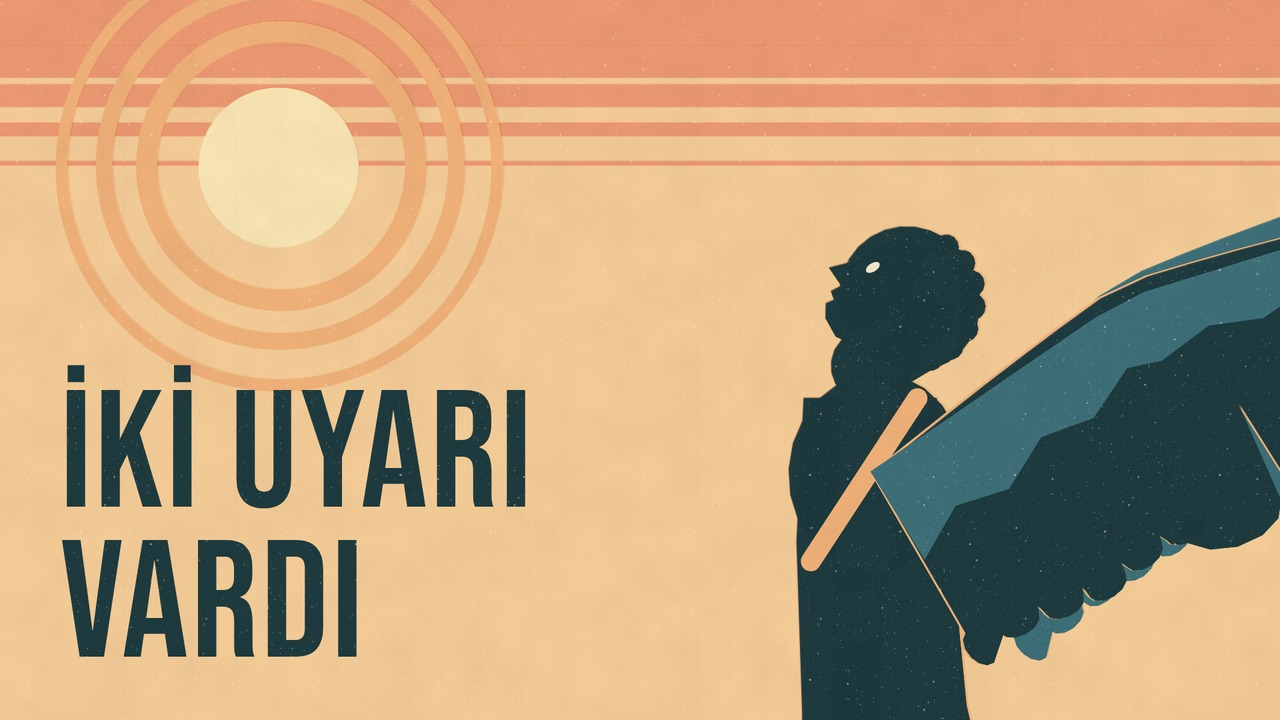
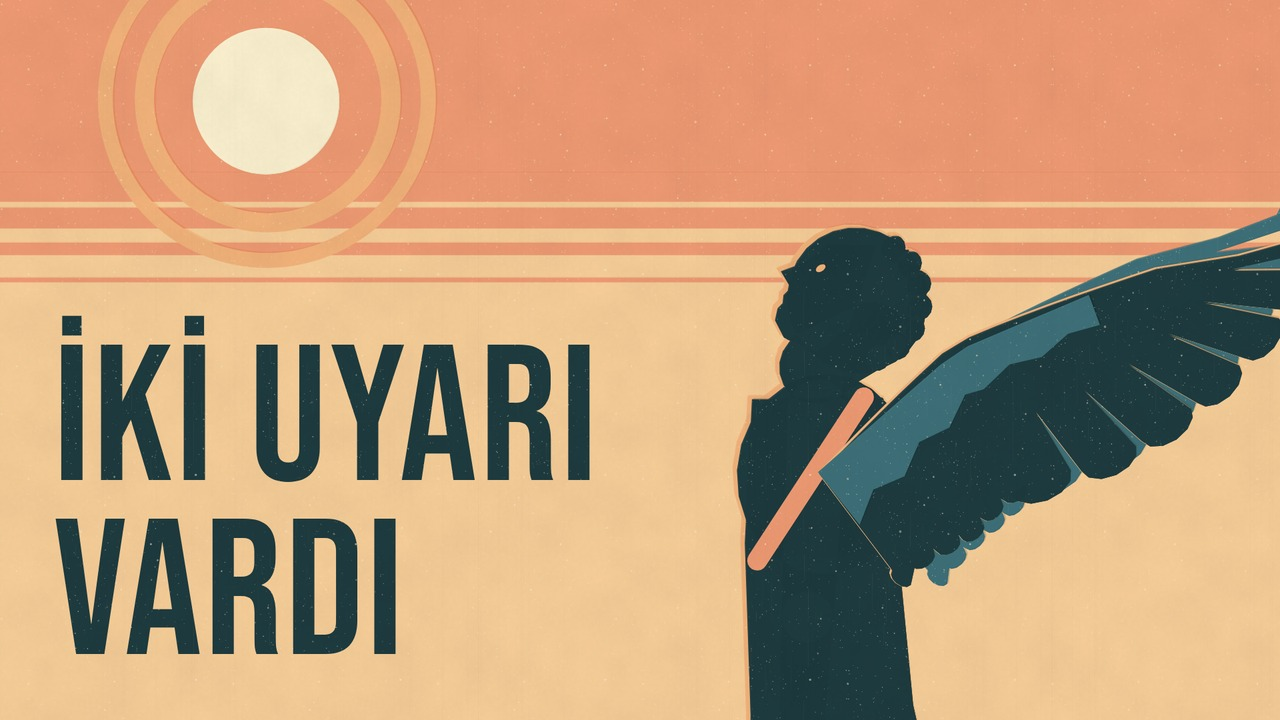
İkaros kapak tur 1 (G A 8,0 B 7,0 paket 7,5; H A 7,5 B 6,0) düzeltmeleri: yazı ≥%18, A'da güneş somon bantta ve kanat kadrajda, B'de sıçrama odak ve sudaki tüyler; göz ve dudak sadeleşti (karikatür okumasına karşı, film genelinde); başlık 'Peki Öteki Uyarı Neydi?', sabit yorum cevabı vermiyor
Claude-Session: https://claude.ai/code/session_01DiDBPDUgEDR9Ke5GJpkNYW

diff --git a/ikaros/lib/sahne/kapak.js b/ikaros/lib/sahne/kapak.js
@@ -1,25 +1,28 @@
 // Kapaklar (1280×720'ye küçültülür). ?scene=kapakA|kapakB. Kurallar: tek odak, harf ≥ %18 (Bebas), sağ alt (rozet) boş.
 'use strict';
 function kapakYazi(ctx, lines, x, y, px, col, align = 'left') { ctx.save(); baseT(ctx); ctx.font = FONT.baslik(px); ctx.textAlign = align; ctx.textBaseline = 'alphabetic'; ctx.letterSpacing = '4px'; ctx.fillStyle = col; lines.forEach((l, i) => ctx.fillText(l, x, y + i * px * .9)); ctx.restore(); }
-// A: açılış karesinin aynası: İkaros sağda, sola güneşe bakıyor; yazı sol altta
+// A: açılış karesinin aynası: İkaros sağda, sola güneşe bakıyor; yazı sol altta (büyük harf ≥ %18: Bebas 290 px ≈ 135 px / 720'de)
 SCENES.kapakA = (ctx, t) => {
   baski(ctx, kSt(4, 4), null, pr => {
-    pr.sky('sky2', 'sky1', 70, 300, 4);
-    gunes(pr, 420, 250, 120, 3);
-    const J = FG.rig({ x: 1330, y: 1160, h: 215, f: -1, lean: .05, head: -.62, armN: [.1, 0], armF: [.1, 0] });
-    kanatliFigur(pr, J, { w: { ang: -.6, bend: .3, span: 1000, chord: 370, side: 1, seed: 12 }, armInWing: false, kosum: true, light: [-1, -.7], litD: 4, farOff: [50, 10], faceFill: false, look: { curls: true, chest: true, face: true, belt: false } });
-  }, { pal: 'SAFAK' });
-  kapakYazi(ctx, ['İKİ UYARI', 'VARDI'], 90, 760, 250, PAL.SAFAK.near);
+    pr.sky('sky2', 'sky1', 260, 470, 4);
+    const s = FG.sunRings(400, 150, 110, 2); s.rings.forEach(q => pr.ink(q, 'lit', { sheen: 0 })); pr.ink(s.disk, '#FAF0CF');
+    const J = FG.rig({ x: 1250, y: 1160, h: 215, f: -1, lean: .05, head: -.62, armN: [.1, 0], armF: [.1, 0] });
+    kanatliFigur(pr, J, { w: { ang: -.72, bend: .32, span: 600, chord: 240, side: 1, seed: 12 }, armInWing: false, kosum: true, kosumRole: 'sky2', light: [-1, -.7], litD: 4, farOff: [40, 10], faceFill: false, look: { curls: true, chest: true, face: true, belt: false } });
+  }, { pal: 'SAFAK', sabit: true });
+  kapakYazi(ctx, ['İKİ UYARI', 'VARDI'], 80, 720, 290, PAL.SAFAK.near);
 };
-// B: kanat ucu denize değer; yazı üstte
+// B: kanat ucu denize değer; en parlak öğe temas noktasındaki sıçrama; suda tek tük tüyler; yazı sağ üstte
 SCENES.kapakB = (ctx, t) => {
   baski(ctx, kSt(3, 6), null, pr => {
     pr.sky('sky2', 'sky1', 60, 300, 4);
-    gunes(pr, 1560, 230, 90, 3);
+    const s = FG.sunRings(1700, 120, 56, 1); s.rings.forEach(q => pr.ink(q, 'lit', { sheen: 0 })); pr.ink(s.disk, 'lit');
     const wn = FG.wing({ root: [-240, 60], ang: .5, bend: .3, span: 1450, chord: 330, f: 1, seed: 21 });
     litInk(pr, wn.all, 'lit', 'near', 1, -.6, 9); pr.ink(wn.cov, 'mid', { sheen: .1 });
     const yW = 830, sea = new Path2D(); sea.moveTo(-50, yW); for (let x = -50; x <= 1970; x += 20) sea.lineTo(x, yW + Math.sin(x / 90 + 1.2) * 9); sea.lineTo(1970, 1200); sea.lineTo(-50, 1200); sea.closePath(); pr.ink(sea, 'mid', { sheen: .2 });
-    for (let k = 0; k < 3; k++) { const r = 70 + k * 80, ring = SK.ringPath(0, 0, r, r + 7), q = new Path2D(); q.addPath(ring, new DOMMatrix().translate(wn.tip[0], yW + 14).scale(1, .22)); pr.ink(q, 'sky1', { sheen: 0, reg: 0 }); }
-  }, { pal: 'SAFAK' });
-  kapakYazi(ctx, ['UNUTULAN', 'UYARI'], 1850, 470, 250, PAL.SAFAK.near, 'right');
+    const tx = wn.tip[0];
+    for (let k = 0; k < 3; k++) { const r = 80 + k * 90, ring = SK.ringPath(0, 0, r, r + 9), q = new Path2D(); q.addPath(ring, new DOMMatrix().translate(tx, yW + 14).scale(1, .22)); pr.ink(q, 'sky1', { sheen: 0, reg: 0 }); }
+    const sp = new Path2D(); for (let i = 0; i < 7; i++) { const a = -Math.PI + i * .52; FG.ellipseInto(sp, tx + Math.cos(a) * 46, yW - 6 + Math.sin(a) * 38, 14, 22, a + Math.PI / 2, 12); } pr.ink(sp, '#FAF0CF', { sheen: 0, reg: 0 });
+    const tu = new Path2D(); [[1150, 900, .3], [1420, 960, -.4], [860, 1000, .9]].forEach(([x, y, a]) => a2_tuy(tu, x, y, 120, a, .14)); pr.ink(tu, 'lit', { sheen: .2 });
+  }, { pal: 'SAFAK', sabit: true });
+  kapakYazi(ctx, ['UNUTULAN', 'UYARI'], 1860, 500, 290, PAL.SAFAK.near, 'right');
 };

diff --git a/ikaros/lib/figur.js b/ikaros/lib/figur.js
@@ -41,12 +41,12 @@ const FG = (() => {
     const { Hd, h, f, ht } = J, r = .5 * h, c = Math.cos(ht), s = Math.sin(ht);
     const T = (x, y) => [Hd[0] + (x * c - y * s) * f, Hd[1] + (x * s + y * c)];   // x: yüz yönü, y: aşağı
     ellipseInto(p, Hd[0], Hd[1], r * .98, r * 1.04, ht);
-    polyInto(p, [T(.2 * r, -.78 * r), T(.78 * r, -.42 * r), T(.88 * r, -.1 * r), T(1.2 * r, .24 * r), T(.92 * r, .36 * r), T(1.0 * r, .5 * r), T(.9 * r, .58 * r),
-      T(.97 * r, .68 * r), T(.86 * r, .86 * r), T(.6 * r, 1.0 * r), T(.1 * r, .92 * r), T(-.1 * r, .4 * r)]);
+    polyInto(p, [T(.2 * r, -.78 * r), T(.78 * r, -.42 * r), T(.88 * r, -.1 * r), T(1.14 * r, .24 * r), T(.9 * r, .36 * r), T(.93 * r, .5 * r), T(.88 * r, .6 * r),
+      T(.9 * r, .7 * r), T(.84 * r, .86 * r), T(.6 * r, 1.0 * r), T(.1 * r, .92 * r), T(-.1 * r, .4 * r)]);
     if (o.beard) { polyInto(p, [T(.66 * r, .5 * r), T(.98 * r, .86 * r), T(.9 * r, 1.22 * r), T(.62 * r, 1.62 * r), T(.36 * r, 1.4 * r), T(.1 * r, 1.2 * r), T(-.15 * r, .5 * r)]); for (let k = 0; k < 5; k++) { const a = Math.PI * (.8 + k * .16); ellipseInto(p, ...T(Math.cos(a) * r * .95 - .1 * r, Math.sin(a) * r * .9 + .05 * r), r * .2, r * .2, 0, 12); } }
     if (o.curls) for (let k = 0; k < 7; k++) { const a = Math.PI * (.78 + k * .12); ellipseInto(p, ...T(Math.cos(a) * r * .84 - .04 * r, Math.sin(a) * r * .86 - .02 * r), r * .19, r * .19, 0, 14); }
     if (o.faceOut) { const fp = P(); polyInto(fp, [T(.32 * r, -.8 * r), T(.78 * r, -.42 * r), T(.86 * r, -.06 * r), T(1.12 * r, .2 * r), T(.9 * r, .34 * r), T(.94 * r, .52 * r), T(.84 * r, .66 * r), T(.86 * r, .8 * r), T(.6 * r, 1.0 * r), T(.4 * r, .88 * r), T(.5 * r, .3 * r), T(.44 * r, -.3 * r)]);
-      const ep = P(); ellipseInto(ep, ...T(.66 * r, -.1 * r), r * .11, r * .06, ht, 14); o.faceOut.face = fp; o.faceOut.eye = ep; }
+      const ep = P(); ellipseInto(ep, ...T(.64 * r, -.1 * r), r * .075, r * .045, ht, 14); o.faceOut.face = fp; o.faceOut.eye = ep; }
     // boyun
     capsule(p, J.N, add2(Hd, [-f * .1 * h, .25 * h]), .26 * h, .24 * h);
   }

diff --git a/ikaros/lib/sahne/ortak.js b/ikaros/lib/sahne/ortak.js
@@ -19,8 +19,8 @@ function kanatliFigur(pr, J, o) {
   pr.ink(fig.far, o.farLimb || 'near');
   litInk(pr, fig.body, 'lit', o.body || 'near', L[0], L[1], dl);
   if (fig.belt) pr.ink(fig.belt, o.beltRole || 'lit', { sheen: 0 });
-  if (o.kosum) { const k = new Path2D(), fw = [Math.cos(J.lean) * J.f, Math.sin(J.lean)]; FG.capsule(k, add2c(add2c(J.Sh, fw, -.35 * J.h), J.upv, .05 * J.h), add2c(add2c(J.H, fw, .45 * J.h), J.upv, 1.5 * J.h), J.h * .07, J.h * .07); pr.ink(k, 'lit', { sheen: 0 }); }
-  if (fig.face) { if (o.faceFill !== false) { pr.ink(fig.face, 'lit', { sheen: .2 }); pr.ink(fig.eye, o.body || 'near', { sheen: 0 }); } else pr.ink(fig.eye, 'paper', { sheen: 0, reg: 0 }); }
+  if (o.kosum) { const k = new Path2D(), fw = [Math.cos(J.lean) * J.f, Math.sin(J.lean)]; FG.capsule(k, add2c(add2c(J.Sh, fw, -.35 * J.h), J.upv, .05 * J.h), add2c(add2c(J.H, fw, .45 * J.h), J.upv, 1.5 * J.h), J.h * .07, J.h * .07); pr.ink(k, o.kosumRole || 'lit', { sheen: 0 }); }
+  if (fig.face) { if (o.faceFill !== false) { pr.ink(fig.face, 'lit', { sheen: .2 }); pr.ink(fig.eye, o.body || 'near', { sheen: 0 }); } else pr.ink(fig.eye, 'lit', { sheen: 0, reg: 0 }); }
   if (w) {
     const wn = FG.wing({ root: R0, ang: w.ang, bend: w.bend, span: w.span, chord: w.chord, f: w.side, seed: w.seed || 1, ruin: w.ruin });
     litInk(pr, wn.all, 'lit', o.wing || 'near', L[0], L[1], dl * .8);

diff --git a/ikaros/tools/kapak_seti.py b/ikaros/tools/kapak_seti.py
@@ -1,0 +1,56 @@
+"""Kapak ve kapak kurulu test seti.
+Kullanım: python3 tools/kapak_seti.py <çıktı-klasörü>
+- ikaros/kapak/kapak_a.jpg (A) ve kapak_b.jpg (B): 1280×720 JPG, < 2 MB
+- test seti (her kapak için): tam boy, 246×138 ve 168×94 küçültmeler, bulanık (odak noktası), gri değer,
+  sağ altta süre rozeti, mobil akış taklidi (kanalın Sisifos ve Orfeus kapaklarıyla yan yana)"""
+import sys, os, subprocess
+from PIL import Image, ImageOps, ImageFilter, ImageDraw, ImageFont
+R = os.path.dirname(os.path.dirname(os.path.abspath(__file__))); ROOT = os.path.dirname(R)
+out = sys.argv[1]; os.makedirs(out, exist_ok=True)
+tmp = os.path.join(out, '_kare'); os.makedirs(tmp, exist_ok=True)
+FONT = os.path.join(R, 'fonts')
+def font(sz, bold=True):
+    for f in ['/usr/share/fonts/truetype/dejavu/DejaVuSans-Bold.ttf' if bold else '/usr/share/fonts/truetype/dejavu/DejaVuSans.ttf']:
+        if os.path.exists(f): return ImageFont.truetype(f, sz)
+    return ImageFont.load_default()
+covers = {}
+for key, scene, fn in [('A', 'kapakA', 'kapak/kapak_a.jpg'), ('B', 'kapakB', 'kapak/kapak_b.jpg')]:
+    d = os.path.join(tmp, key); os.makedirs(d, exist_ok=True)
+    subprocess.run(['node', os.path.join(R, 'shot.js'), d, '2'], env={**os.environ, 'SCENE': scene, 'MB': '1'}, check=True, capture_output=True)
+    im = Image.open(os.path.join(d, 't0002.00.png')).convert('RGB').resize((1280, 720), Image.LANCZOS)
+    path = os.path.join(R, fn); im.save(path, quality=92, optimize=True)
+    print(fn, round(os.path.getsize(path) / 1e6, 2), 'MB')
+    covers[key] = im
+    im.save(os.path.join(out, f'{key}_1280.jpg'), quality=92)
+    im.resize((246, 138), Image.LANCZOS).save(os.path.join(out, f'{key}_246.png'))
+    im.resize((168, 94), Image.LANCZOS).save(os.path.join(out, f'{key}_168.png')); im.resize((120, 68), Image.LANCZOS).save(os.path.join(out, f'{key}_120.png'))
+    im.resize((320, 180), Image.LANCZOS).filter(ImageFilter.GaussianBlur(6)).resize((640, 360)).save(os.path.join(out, f'{key}_bulanik.png'))
+    ImageOps.grayscale(im).save(os.path.join(out, f'{key}_gri.png'))
+    # süre rozeti (YouTube sağ alt): rozet bölgesi boş mu?
+    b = im.copy(); dr = ImageDraw.Draw(b); dr.rounded_rectangle((1168, 668, 1266, 706), 6, fill=(0, 0, 0)); dr.text((1180, 672), '5:55', fill='white', font=font(28))
+    b.save(os.path.join(out, f'{key}_rozet.jpg'), quality=88)
+# mobil akış taklidi: 390 px genişlikte telefon, üç video alt alta (kapak 358×201, başlık iki satır)
+others = [('Sisifos', os.path.join(ROOT, 'sisifos', 'kapak.png'), "Sisifos'u Neden Mutlu Hayal Etmeliyiz? | Camus ve Absürt"),
+          ('Orfeus', os.path.join(ROOT, 'orfeus', 'kapak_final_A_arkana_bakma.jpg'), 'Orfeus ve Evridiki: Ölüleri İkna Etti, Kendini Durduramadı')]
+for key, im in covers.items():
+    W, item = 390, 201 + 86
+    feed = Image.new('RGB', (W, 16 + item * 3), (15, 15, 15)); dr = ImageDraw.Draw(feed)
+    rows = [(others[0][1], others[0][2]), (None, "İkaros'a İki Uyarı Yapıldı, Herkes Birini Unuttu | Ovidius"), (others[1][1], others[1][2])]
+    for i, (p, title) in enumerate(rows):
+        y = 8 + i * item
+        th = (im if p is None else Image.open(p).convert('RGB')).resize((358, 201), Image.LANCZOS)
+        feed.paste(th, (16, y)); dr.rounded_rectangle((16 + 358 - 54, y + 201 - 26, 16 + 358 - 6, y + 201 - 6), 4, fill=(0, 0, 0))
+        dr.ellipse((16, y + 212, 52, y + 248), fill=(90, 60, 40)); dr.text((62, y + 210), title[:38], fill=(240, 240, 240), font=font(15)); dr.text((62, y + 232), title[38:76], fill=(240, 240, 240), font=font(15))
+        dr.text((62, y + 256), 'Zaman Kuryesi · 1 B görüntüleme', fill=(170, 170, 170), font=font(13))
+    feed.save(os.path.join(out, f'{key}_akis.png'))
+# yan yana karşılaştırma
+cmp = Image.new('RGB', (1280, 360)); cmp.paste(covers['A'].resize((640, 360)), (0, 0)); cmp.paste(covers['B'].resize((640, 360)), (640, 0)); cmp.save(os.path.join(out, 'AB.jpg'), quality=88)
+print('test seti →', out)
+
+# açık tema akışı (beyaz zemin) ve TV boyu (1920 genişlikte 6'lı ızgarada bir kapak ~ 300 px)
+for key, im in covers.items():
+    W, item = 390, 201 + 86
+    feed = Image.new('RGB', (W, 16 + item), (255, 255, 255)); dr = ImageDraw.Draw(feed)
+    feed.paste(im.resize((358, 201), Image.LANCZOS), (16, 8)); dr.text((62, 218), "İkaros'a İki Uyarı Yapıldı, Herkes", fill=(15, 15, 15), font=font(15)); dr.text((62, 240), 'Birini Unuttu | Ovidius', fill=(15, 15, 15), font=font(15))
+    feed.save(os.path.join(out, f'{key}_akis_acik.png'))
+    tv = Image.new('RGB', (1920, 1080), (20, 20, 20)); [tv.paste(im.resize((300, 169), Image.LANCZOS), (60 + i * 310, 300)) for i in range(6)]; tv.save(os.path.join(out, f'{key}_tv.jpg'), quality=85)

diff --git a/ikaros/kurul/kapak_tur1/G_paketleme.md b/ikaros/kurul/kapak_tur1/G_paketleme.md
@@ -1,0 +1,73 @@
+# İkaros: kapak ve yayın paketi, tur 1 (G: TO/paketleme + yayın paketi denetçisi)
+
+**Puan:** Kapak A **8,0** · Kapak B **7,0** · Paket (başlık, açıklama, yorum, kart) **7,5**. **Karar: RED.** Düzeltmeler küçük; uygulanırsa A ve paket 9'a çıkar.
+
+## Ölçtüklerim
+- Büyük harf yüksekliği iki kapakta da **118 px = %16,4**. Kural en az %18, yani ≥130 px.
+  - A: "İKİ UYARI" y 390–507, "VARDI" y 540–655.
+  - B: y 197–314 ve 347–464.
+- En parlak nokta:
+  - A'da gözün beyazı (879,263); güneş ikinci sırada. Odak doğru: bakış çizgisi güneşe gidiyor.
+  - B'de en parlak nokta güneş (1017,195), yani yazının arkası. Anlatının odağı başka yerde: kanat ucunun suya değdiği yer (x 440–750, y 530–600).
+- Süre rozeti bölgesi iki kapakta da boş. Başlık A 58 karakter, etiketler 226 karakter.
+- Vaadin karşılanması:
+  - A: ilk kare aynı figür; "iki uyarı" sözü 0:02,7'de. Kusursuz.
+  - B: "Ötekini çoğumuz hatırlamayız" 0:09,3'te, görüntüsü 0:09'da. Bu da karşılanıyor.
+
+## Güçlü yanlar
+- **Tanıdık kapı doğru:** İkaros + güneş, Türk izleyicinin ilk bakışta tanıdığı simge (Milton'daki sorunun tersi).
+- **Akıştaki görünüm:** iki kapak koyu akışta kanal komşularından (Sisifos, Orfeus) ve tipik dramatik "düşen İkaros" görsellerinden üslupça ayrışıyor.
+- **A/B iki ayrı hipotez sınıyor:** A tanınan ikonu, B gizemi sınıyor. Ayna kompozisyon, figür–kanat farkı ve gök–deniz farkı var; seçenekler yeterince belirgin farklı.
+
+## Düzeltmeler (önem sırasıyla)
+1. **Sabit yorum cevabı veriyor.**
+   - Sorun: ilk cümle "çok alçaktan uçma" diyor. Mobilde yorum önizlemesi oynatıcının altında görünür, yani A03'ün merak döngüsü (cevap C05–C06, 1:13–1:32) daha 0:10'da bozulur.
+   - Önerilen metin: "Unutulan uyarıyı videodan önce biliyor muydun? Ve kimse başını kaldırıp bakmasa bile, sen hangi yükseklikte uçardın? 🪶 (Sıradaki efsaneyi de yazın: bu video da sizin isteğinizdi.)"
+2. **Kapak yazıları en az %18'e çıksın** (≥130 px):
+   - A: blok yaklaşık x 63–580, y 375–690. İ noktası halkalara değerse güneşi ~20 px yukarı al.
+   - B: blok yaklaşık x 640–1236.
+3. **B'nin odağı yanlış yerde.**
+   - Güneşi kaldır ya da küçültüp kıs; yazının arkasında ikinci odak yapıyor.
+   - Temas noktasını karenin en parlak öğesi yap: krem sıçrama ya da damla ekle.
+   - Halka çizgileri ≥6 px olsun; bugün 168 px'te hiç görünmüyor.
+   - Kanat 168 px'te yüzgeç ya da kaya gibi okunuyor. Suyun üstüne 2–3 tek tüy koy (E05 "dalgaların üstünde tüyler"): "tüy + su" küçük boyda tek başına okunur.
+4. **Başlıktaki "Herkes" fazla iddialı.**
+   - Kaynak kurulu A03'ü "çoğumuz" diye yumuşatmıştı (Seth Godin'in *The Icarus Deception*'ı tam bu tezi işliyor). Başlık bu iddiayı geri getiriyor.
+   - Başlık A, kapak A'nın yazısını tekrarlıyor; tamamlamıyor.
+   - Önerilerim:
+     - **T1 (önerim):** `İkaros: "Güneşe Yaklaşma." Peki Öteki Uyarı Neydi?` (50 karakter). İsim başta, bilinen uyarı tanınıyor, soru kalıbı "Neden" değil. İki kapağı da tamamlıyor. "Ovidius" açıklamanın ilk satırına gider.
+     - **T2 (en az değişiklik):** `İkaros'a İki Uyarı Yapıldı, Çoğumuz Birini Unuttuk` (50).
+     - **T3:** T1'in sonuna `| Ovidius` eklenmiş hâli (60). Sınırda; mobilde kesilir.
+   - Reddettiklerim:
+     - Test seçeneği B cevabı başlıkta veriyor ve kapak B'nin gizemini öldürüyor.
+     - Test seçeneği C'nin vaadi ancak 3:01'de karşılanıyor; ilk 5 saniye kuralına aykırı.
+5. **Kartlar.**
+   - 0:48'deki Sisifos kartını çıkar. 5:55'lik videoda erken bir çıkış kapısı oluyor; test kazananı izlenme süresi payıyla seçiyor.
+   - 3:01'deki Milton kartı F01'in yeniden kanca anına ("Ovidius hikâyeyi burada bitirmez") denk geliyor. ~4:50'ye taşı (G06–G07) ya da kaldır; Milton zaten H01'de ve bitiş ekranında.
+6. **Açıklama.**
+   - Milton satırına gerçek bağlantıyı koy; "Mitler ve Felsefe" oynatma listesinin bağlantısını ekle.
+   - İlk üç hashtag başlığın üstünde görünür: `#Ovidius` yerine `#YunanMitolojisi` kullan.
+7. **Bölüm damgaları** cümle başından 0,2–0,45 sn geç kalıyor (B02 15,62; C01 47,55; E01 143,68; F01 180,76).
+   - Önerilen: 0:15, 0:47, 2:23, 3:00.
+   - Bölüm levhası daha önce başlıyorsa levhanın başlangıcı kullanılsın.
+8. **A'da ince ayar:**
+   - Omuzdaki açık turuncu kayış (x ~800–930, y ~390–570) 168 px'te silueti bölen açık bir çubuk gibi duruyor. Koyulaştır ya da incelt.
+   - Açık akışta krem zemin beyaza yakın. Kenarlarda %3–5 hafif koyulaşma kenarı belirginleştirir (isteğe bağlı).
+9. **Bitiş ekranı (5:35–5:55):** doğru kurulmuş.
+   - 20 sn sürüyor, rozet bölgesi boş, H01'deki "ekranda" sözüyle uyumlu.
+   - Sonraki adım:
+     - İkaros'u Sisifos'un bitiş ekranına **ikinci öğe** olarak ekle; Milton'ı çıkarma, onun 72. saat kararı sürüyor.
+     - Yayın saatini 20:00–21:00 olarak koru.
+
+## Doğru bulduklarım
+- "Yorumlarda İkaros'u isteyenler" ifadesi kullanıcıca doğrulanmış (senaryo H01 notu).
+- Açıklamada yapay zekâ sesi ve MIT kredisi var; Bruegel'e "atfedilen" ifadesi doğru.
+- Kitle ayarı ve sentetik içerik adımları doğru.
+- 7 bölüm var, ilk bölüm 0:00'da ve her bölüm ≥10 sn.
+
+## En emin olmadığım nokta
+- **Sakin kapaklar tıklatır mı?** İki kapak da sakin, pastel bir afiş. Rakip İkaros kapakları düşüşü, eriyen mumu ve ateşi gösterir. Ayrışmak bir artı, ama geniş göz atma testinde dramın yokluğu TO'yu düşürebilir. A'nın kazanacağını tahmin ediyorum (tanınan ikon, figür).
+- **72. saat kuralı:** TO %2'nin altında kalırsa yeni paket düşüş anını göstermeli. Örnek: eriyen tüyler, aynı figür. Yazı "BİRİNİ UNUTTUK" olabilir.
+- **Mobil yorum önizlemesi:** sabit yorumu her zaman gösterdiğinden emin değilim. Yine de risk ucuz giderildiği için düzeltilmeli.
+- **Hassasiyet kuruluna not:** koyu siluette tek beyaz göz ve kıvırcık saç var. Karikatür gibi okunma riski düşük, ama bir kez bakılsın.
+- **"Üç uyarı vardı" itirazı:** Ovidius'ta yıldızlarla yön bulma ve "beni izle" de var. Senaryo kurulu bunu "öğüt" diye ayırdı; yorumlarda "üç uyarı vardı" itirazı gelebilir. Bu bir etkileşim fırsatı, düzeltme gerektirmez.

diff --git a/ikaros/kurul/kapak_tur1/H_sanat_hassasiyet.md b/ikaros/kurul/kapak_tur1/H_sanat_hassasiyet.md
@@ -1,0 +1,47 @@
+# Kapak, tur 1: H (sanat yönetmeni + görsel hassasiyet/okunurluk)
+
+**A: 7,5/10 RED. B: 6,0/10 RED. Veto: yok.** Engelleyici olmayan bir hassasiyet uyarısı var (madde 4).
+
+Ölçümler 1280×720'de yapıldı. Kod parametreleri `kapak.js`'deki 1920 uzayındadır.
+- **Büyük harf yüksekliği:** A ve B'de 118 px, yani %16,4. Kural %18 (130 px). Koddaki "harf ≥ %18" yorumu doğru değil: Bebas'ta büyük harf ≈ 0,70 em, 250 px font %16,4 verir.
+- **Parlaklık:** A'da en parlak nokta göz (L 243). Güneş L 225.
+- **Güneş-zemin karşıtlığı:** 1,19:1; gri testinde güneş neredeyse kayboluyor.
+- **Diğer karşıtlıklar:** yazı-zemin 8:1, göz-baş 9,9:1.
+
+## Ne çalışıyor
+- Üslup filmle tutarlı: düz opak mürekkep, şerit gökyüzü, kayık baskı.
+- A'daki bakış çizgisi (göz → güneş) 168 px'te okunuyor: "güneşe bakan kanatlı genç".
+- A'da yazı ile figür arasında 271 px boşluk var.
+- B'nin yazısı filmdeki P47 geri çağrısıyla ("Unutulan uyarı buydu") birebir aynı.
+- **Hassasiyet:** hale yok (baş güneşten ~620 px uzakta), haç pozu yok. Siluet ayrıntısız, çıplaklık okunmuyor. Uçurumda aşağı bakan figür yok. Mutlak iddia yok; iki uyarı Ovidius VIII 203–206'ya uyuyor. Melek okuması düşük, çünkü açık renkli çapraz kayış kanadın takma olduğunu söylüyor. Kayış korunmalı.
+
+## Düzeltmeler (önem sırasıyla)
+1. **Harf yüksekliği (A, B):** `kapakYazi` px 250 → 290. Böylece büyük harf ~135 px (%18,8) olur.
+   - A: taban çizgileri 720 ve 981. Yazı 1280'de x 60–596, y ~345–654 arasına düşer; figürle arada ~200 px kalır.
+   - B: aşağıdaki 6. maddeye bak.
+2. **A'da kanat blok ya da pelerin gibi okunuyor.**
+   - Neden: kanadın ucu kare dışında kalıyor (`span 1000, ang -.6`). Üst kenar düz bir tahta gibi, birincil tüylerin arası görünmüyor.
+   - Tek "tüy" işareti alt saçak (x 1000–1180, y 560–660). O da rozet bölgesinde (x 960–1250, y 553–690); akış taklidinde rozetin altında kalıyor.
+   - Çözüm: `span ≈ 620`, `ang ≈ -0,95`. Kanat yukarı ve sağa kalkar, uç (1160–1220, 150–220) kare içinde kalır.
+   - En az 3 ayrık birincil tüy görünsün; araları zemin renginde ve ≥ 8 px olsun (üslup kapısındaki yakın plandaki gibi). Saçak y ≤ 520'de kalsın.
+   - Gerekirse figür `x 1330 → 1250`.
+3. **A'da değer sıralaması.** Güneş tek ve en parlak odak olmalı.
+   - Güneşi somon şerit bandına taşı: `gunes(pr, 400, 150, 120, 2)`. 1280'de merkez (267,100) olur. Somon üstünde karşıtlık 1,8:1'e çıkar.
+   - Dış halka y ≤ ~300'de kalır; bugün y ~375'te "İ" noktalarına neredeyse değiyor (x 130–260). Bu teğet de böylece kalkar.
+   - Diski bir ton aç (~#FAF0CF).
+   - Gözü kâğıt beyazı yerine `sky1` bejine (241,201,149) çevir. Göz-baş karşıtlığı 8:1 kalır, bakış yine okunur.
+4. **A, hassasiyet (engelleyici değil).** Siyah siluet + bembeyaz badem göz + yuvarlak kıvırcık baş + öne çıkık açık ağız, kapak boyutunda ırkçı karikatür (minstrel) okumasına kapı aralıyor. İzleyicinin yaklaşık yarısı yurt dışından.
+   - Çözüm: 3. maddedeki bej göz ve ağız çentiğini küçültmek ya da kapatmak. Ağız 168 px'te zaten okunmuyor, kayıp olmaz.
+5. **B'de kanat yaprak, yüzgeç ya da balina kuyruğu gibi okunuyor** (168 px ve bulanıklık testi). İki açık yarık muz yaprağına benziyor. İnsan ve yüz yok; görselin vaadi yalnız "denizle ilgili unutulmuş bir şey", kimin olduğunu başlık söylüyor.
+   - Çözüm: arka kenara A'daki pul sıraları ve 4–5 ayrık birincil tüy "parmağı" ekle.
+   - Suyun üstüne 2–3 serbest tüy koy (x 600–900, y 560–600). Tüy İkaros'un en evrensel işaretidir.
+   - Kanat kökünde kısa bir kayış parçası görünsün.
+6. **B'de güneş yazıyla çakışıyor.** Diskin alt kenarı y ≈ 210'da; "UNUTULAN"ın harf üstü y 197'de, "UL" harflerine (x 1000–1080) değiyor. Odak yazıyla çakışık.
+   - Çözüm: `gunes(pr, 1600, 140, 80, 2)`, yazı taban çizgileri 520 ve 781 (px 290).
+   - 1280'de disk alt kenarı ~147, harf üstü ~211 olur. Yazının altı ile deniz arasında ≥ 30 px kalır. Halkalar harfleri kesmesin.
+7. **Paketlemeye not (alanım dışı):**
+   - A'nın yazısı başlığı tekrar ediyor ("İkaros'a İki Uyarı Yapıldı").
+   - Başlıktaki "Herkes Birini Unuttu" mutlak iddiaya yakın; kırmızı çizgi 7 kapak için yazılmış, başlığa da bakılsın.
+
+## En emin olmadığım nokta
+4. madde: karikatür riski gerçek mi, aşırı okuma mı? Üslup kapısında aynı baş onaylandı ve 168 px'te bu ayrıntı görünmüyor. Yine de kapakta baş 1920'de ~225 px; önerilen düzeltme bedava ve 3. maddeyle aynı. İkinci belirsizlik: soluk güneş bilinçli bir afiş yumuşaklığı olarak savunulabilir. Ama gri testinde kaybolan bir odak kapakta taşıyıcı olamaz.

diff --git a/ikaros/youtube.md b/ikaros/youtube.md
@@ -1,11 +1,10 @@
 # İkaros: YouTube metinleri (taslak; paketleme kurulundan geçecek)
 
 ## Başlık
-**A (önerilen):** İkaros'a İki Uyarı Yapıldı, Herkes Birini Unuttu | Ovidius
-- Test seçeneği B: İkaros'un Unutulan Uyarısı: "Çok Alçaktan da Uçma"
-- Test seçeneği C: İkaros'tan Önce Düşen Çocuk: Daidalos'un Sırrı
+**A (önerilen; 50 karakter):** İkaros: "Güneşe Yaklaşma." Peki Öteki Uyarı Neydi?
+- Yedek (en az değişiklik): İkaros'a İki Uyarı Yapıldı, Çoğumuz Birini Unuttuk
 
-("Neden …?" kalıbı kullanılmadı: bir önceki video "…Neden Kaçamadı?")
+Başlık soruyu sorar, kapak A ("İKİ UYARI VARDI") ve kapak B ("UNUTULAN UYARI") onu tamamlar; cevap filmde (1:13–1:32). "Neden …?" kalıbı yok (önceki video "…Neden Kaçamadı?"). "Herkes" gibi mutlak iddia yok (kurul G/H).
 
 ## Açıklama
 İkaros'a babası, uçmadan önce iki uyarı yaptı. Birini hepimiz biliyoruz: güneşe fazla yaklaşma. Ötekini çoğumuz hatırlamayız.
@@ -15,11 +14,11 @@ Ovidius'un Dönüşümler'indeki İkaros hikâyesini baştan okuyoruz: unutulan 
 Bu video, yorumlarda İkaros'u isteyenler için.
 
 0:00 İki uyarı
-0:16 Havaya kimse sahip değil
-0:48 Mum ve tüy
+0:15 Havaya kimse sahip değil
+0:47 Mum ve tüy
 1:46 Tanrılar gibi
-2:24 İkaros, neredesin?
-3:01 Kekliğin sevinci
+2:23 İkaros, neredesin?
+3:00 Kekliğin sevinci
 4:02 Üç uçuş
 
 Kaynaklar
@@ -34,13 +33,14 @@ Yapım
 - Animasyon: kodla çizildi (serigrafi afiş üslubu; baskı motoru LemoLab silk.js, MIT lisansı).
 - Müzik ve efektler: özgün, kodla sentezlendi.
 
-Milton'ın Şeytan'ı: kanalda "Kayıp Cennet" videosu.
+Milton'ın Şeytan'ı: kanaldaki "Kayıp Cennet" videosu (bağlantıyı Studio'da ekle).
+Sisifos: kanaldaki "Sisifos'u Neden Mutlu Hayal Etmeliyiz?" videosu (bağlantıyı Studio'da ekle).
 
-#İkaros #Ovidius #Mitoloji #Felsefe #ZamanKuryesi
+#İkaros #YunanMitolojisi #Ovidius #Felsefe #ZamanKuryesi
 
 ## Etiketler
 İkaros, Icarus, Daidalos, Daedalus, Ovidius, Dönüşümler, Metamorphoses, Yunan mitolojisi, mitoloji, Girit, labirent, keklik, Perdix, Bruegel, İkaros'un düşüşü, orta yol, mükemmeliyetçilik, ya hep ya hiç, felsefe, Zaman Kuryesi
 
-## Sabit yorum
-Babasının iki uyarısından hangisini daha çok unutuyoruz: "çok yükseğe uçma" mı, "çok alçaktan uçma" mı? Sen kimse bakmasa bile hangi yükseklikte uçardın? 🪶
+## Sabit yorum (cevabı vermez: mobilde önizleme açılıştaki merakı bozmasın)
+Unutulan uyarıyı videodan önce biliyor muydun? Ve kimse başını kaldırıp bakmasa bile, sen hangi yükseklikte uçardın? 🪶
 (Sıradaki efsaneyi de yazın: bu video da sizin isteğinizdi.)

diff --git a/ikaros/yayin.md b/ikaros/yayin.md
@@ -6,8 +6,8 @@
 4. **Kitle:** "Hayır, çocuklara özel değil" (kurul D: çocuk güvenliği işareti).
 5. **Değiştirilmiş/sentetik içerik:** gerçekçi bir kişi ya da olay göstermiyor; animasyon. Ses yapay zekâ: açıklamada yazılı. YouTube'un o günkü sorusunu oku; gerçekçi içerik değilse "Hayır".
 6. **Altyazı:** Altyazılar → Dosya yükle → "Zamanlamalı" → `ikaros.tr.srt` (Türkçe).
-7. **Bitiş ekranı (5:35–5:55):** sol yarıda başlık ve kanatlı figür var; sağdaki koyu çerçeveye **Milton videosu** (Kayıp Cennet), altına **abone ol** öğesi. Sağ alttaki rozet alanı boş.
-8. **Kartlar:** 3:01 (Kekliğin sevinci) → Milton videosu ("Milton'ın Şeytan'ı da…" bağlantısı sonda da var); isteğe bağlı 0:48 → Sisifos.
+7. **Bitiş ekranı (son 20 sn, ~5:34–5:54):** sol yarıda başlık ve kanatlı figür var; sağdaki koyu çerçeveye **Milton videosu** (Kayıp Cennet), altına **abone ol** öğesi. Sağ alttaki rozet alanı boş.
+8. **Kartlar:** yalnız bir kart, ~4:50'de ("Ama önce uçtu"dan sonra) → Milton videosu. İzleyiciyi ilk dakikada filmden çıkaran kart konmaz (kurul G).
 9. **Oynatma listesi:** "Mitler ve Felsefe".
 10. **Sabit yorum:** `youtube.md` → "Sabit yorum".
 11. **Zamanlama:** kanalın önceki yayın saatleri (akşam 20:00–21:00) iyi çalıştı.
